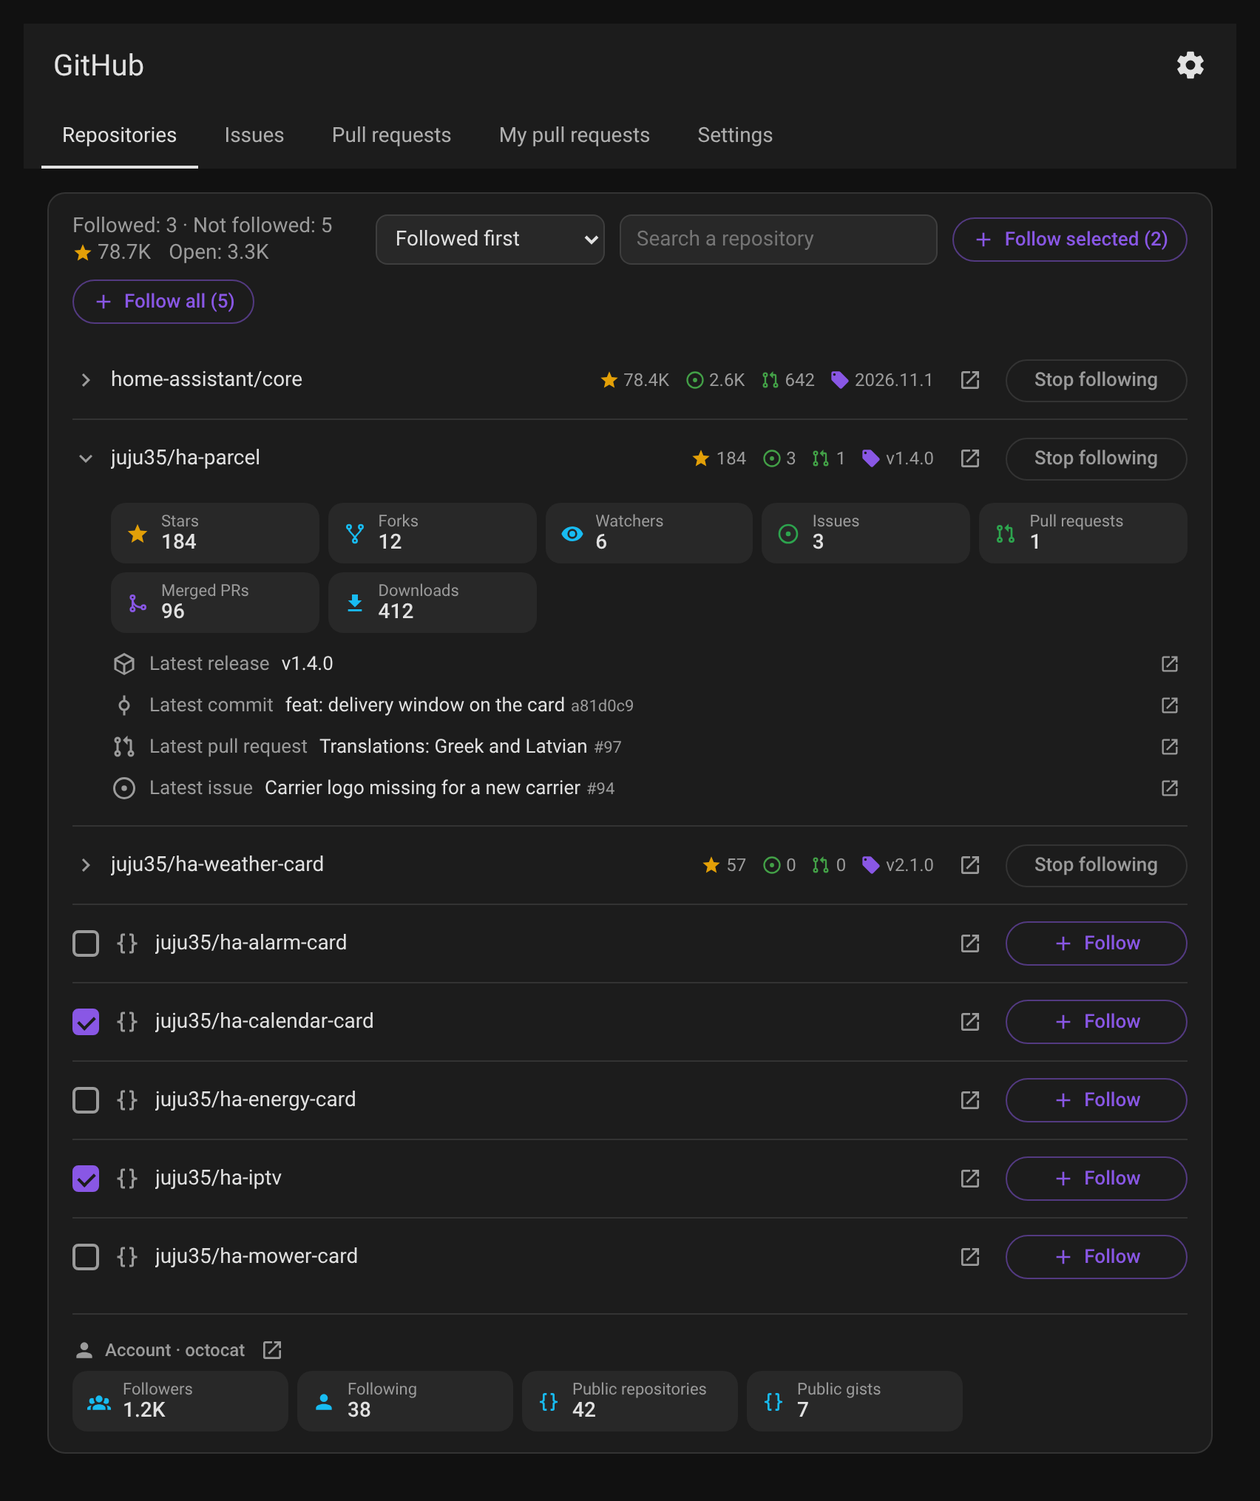
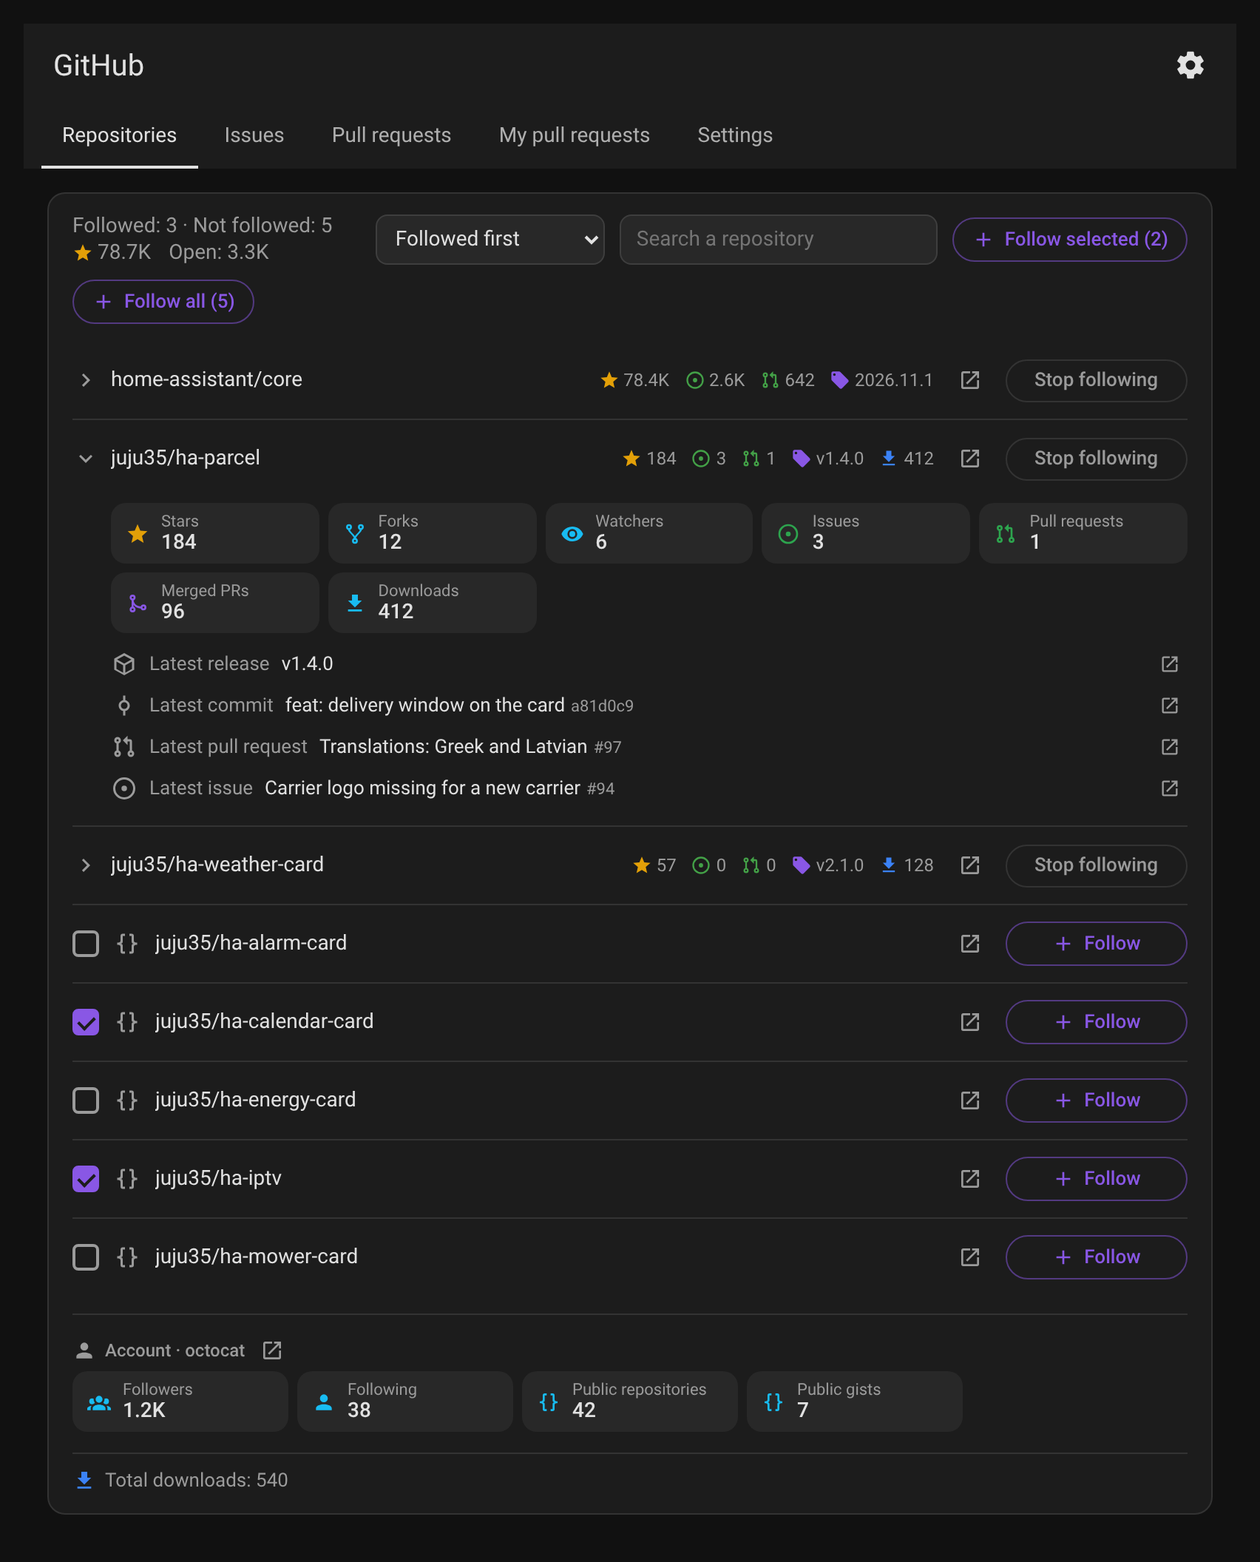
feat: show downloads on the Repositories tab (2.11.0) (#37)
## Summary
Downloads are now surfaced on the panel's Repositories tab without
having to unfold a repository.

- Each followed repository shows its latest-release download count on
its row (next to stars, open issues, pull requests and version), visible
while collapsed. It stays visible on narrow screens, unlike the
version/PR counters.
- The foot of the tab adds the total downloads across all followed
repositories, shown as the exact locale-grouped number and hidden when
there is no download data.

## Changes
- `repositories.py`: add `latest_release_downloads` to `ROW_KEYS` so the
core GitHub integration's download sensor is exposed to the panel.
- `github-panel.js`: download icon, row counter in `_infoHtml`,
`_downloadsTotalHtml()` + `.dl-total` footer and CSS, live refresh in
`_updateInfo`, and the two new i18n keys (`downloads`,
`total_downloads`) in all 22 languages (labels reused from the card).
- Version bump 2.10.0 -> 2.11.0 across manifest, const.py, both frontend
constants, package.json/lock, plus a CHANGELOG entry.

## Tests
- `node --test test/*.test.mjs` -> 50 pass
- `npm run check` -> ok
- Version consistency verified

---
_Generated by [Claude
Code](https://claude.ai/code/session_01F4sAmzJYEQAUuYkXbLuR3H)_

---------

diff --git a/custom_components/github_card/frontend/github-panel.js b/custom_components/github_card/frontend/github-panel.js
@@ -17,7 +17,7 @@
  *   notifications.
  */
 
-const GITHUB_PANEL_VERSION = "2.10.0";
+const GITHUB_PANEL_VERSION = "2.11.0";
 // No Activity tab since 2.3.0: the Repositories tab shows the same; /github-config/activity opens Repositories.
 const GITHUB_PANEL_TABS = ["repos", "issues", "pulls", "mine", "settings"];
 // Bounds of the items refresh interval, in minutes (kept in step with const.py)
@@ -49,6 +49,8 @@ const GITHUB_PANEL_KEYS = [
   "s_refresh", "s_refresh_hint",
   // My pull requests tab (open pull requests I authored, in any repository) and the checks state of a pull request
   "mine", "no_mine", "checks_passing", "checks_failing", "checks_pending",
+  // Downloads of the followed repositories: a row counter and the page total
+  "downloads", "total_downloads",
 ];
 
 const GITHUB_PANEL_TRANSLATIONS = {
@@ -76,6 +78,8 @@ const GITHUB_PANEL_TRANSLATIONS = {
     "Refresh interval (minutes)", "How often the open issues and pull requests are fetched from GitHub.",
     // My pull requests
     "My pull requests", "You have no open pull request.", "Checks passing", "Checks failing", "Checks running",
+    // Downloads: row counter + page total
+    "Downloads", "Total downloads: {n}",
   ],
   fr: [
     "GitHub", "Dépôts", "Activité", "Réglages", "Intégration GitHub", "Chargement…",
@@ -101,6 +105,8 @@ const GITHUB_PANEL_TRANSLATIONS = {
     "Intervalle d’actualisation (minutes)", "Fréquence de récupération des issues et pull requests ouvertes depuis GitHub.",
     // My pull requests
     "Mes pull requests", "Vous n’avez aucune pull request ouverte.", "Tests réussis", "Tests en échec", "Tests en cours",
+    // Downloads: row counter + page total
+    "Téléchargements", "Total des téléchargements : {n}",
   ],
   de: [
     "GitHub", "Repositorys", "Aktivität", "Einstellungen", "GitHub-Integration", "Wird geladen…",
@@ -126,6 +132,8 @@ const GITHUB_PANEL_TRANSLATIONS = {
     "Aktualisierungsintervall (Minuten)", "Wie oft die offenen Issues und Pull Requests von GitHub abgerufen werden.",
     // My pull requests
     "Meine Pull Requests", "Du hast keinen offenen Pull Request.", "Prüfungen bestanden", "Prüfungen fehlgeschlagen", "Prüfungen laufen",
+    // Downloads: row counter + page total
+    "Downloads", "Downloads insgesamt: {n}",
   ],
   es: [
     "GitHub", "Repositorios", "Actividad", "Ajustes", "Integración GitHub", "Cargando…",
@@ -151,6 +159,8 @@ const GITHUB_PANEL_TRANSLATIONS = {
     "Intervalo de actualización (minutos)", "Con qué frecuencia se obtienen de GitHub las issues y pull requests abiertas.",
     // My pull requests
     "Mis pull requests", "No tienes ninguna pull request abierta.", "Comprobaciones correctas", "Comprobaciones fallidas", "Comprobaciones en curso",
+    // Downloads: row counter + page total
+    "Descargas", "Descargas totales: {n}",
   ],
   sr: [
     "GitHub", "Репозиторијуми", "Активност", "Подешавања", "Интеграција GitHub", "Учитавање…",
@@ -176,6 +186,8 @@ const GITHUB_PANEL_TRANSLATIONS = {
     "Интервал освежавања (минути)", "Колико често се отворени проблеми и pull захтеви преузимају са GitHub-а.",
     // My pull requests
     "Моји pull захтеви", "Немате отворених pull захтева.", "Провере успешне", "Провере неуспешне", "Провере у току",
+    // Downloads: row counter + page total
+    "Преузимања", "Укупно преузимања: {n}",
   ],
   "sr-Latn": [
     "GitHub", "Repozitorijumi", "Aktivnost", "Podešavanja", "Integracija GitHub", "Učitavanje…",
@@ -201,6 +213,8 @@ const GITHUB_PANEL_TRANSLATIONS = {
     "Interval osvežavanja (minuti)", "Koliko često se otvoreni problemi i pull zahtevi preuzimaju sa GitHub-a.",
     // My pull requests
     "Moji pull zahtevi", "Nemate otvorenih pull zahteva.", "Provere uspešne", "Provere neuspešne", "Provere u toku",
+    // Downloads: row counter + page total
+    "Preuzimanja", "Ukupno preuzimanja: {n}",
   ],
   it: [
     "GitHub", "Repository", "Attività", "Impostazioni", "Integrazione GitHub", "Caricamento…",
@@ -226,6 +240,8 @@ const GITHUB_PANEL_TRANSLATIONS = {
     "Intervallo di aggiornamento (minuti)", "Con quale frequenza le issue e le pull request aperte vengono recuperate da GitHub.",
     // My pull requests
     "Le mie pull request", "Non hai nessuna pull request aperta.", "Controlli superati", "Controlli falliti", "Controlli in corso",
+    // Downloads: row counter + page total
+    "Download", "Download totali: {n}",
   ],
   nl: [
     "GitHub", "Repositories", "Activiteit", "Instellingen", "GitHub-integratie", "Laden…",
@@ -251,6 +267,8 @@ const GITHUB_PANEL_TRANSLATIONS = {
     "Vernieuwingsinterval (minuten)", "Hoe vaak de open issues en pull requests van GitHub worden opgehaald.",
     // My pull requests
     "Mijn pull requests", "Je hebt geen open pull request.", "Controles geslaagd", "Controles mislukt", "Controles bezig",
+    // Downloads: row counter + page total
+    "Downloads", "Totaal aantal downloads: {n}",
   ],
   pt: [
     "GitHub", "Repositórios", "Atividade", "Definições", "Integração GitHub", "A carregar…",
@@ -276,6 +294,8 @@ const GITHUB_PANEL_TRANSLATIONS = {
     "Intervalo de atualização (minutos)", "Com que frequência as issues e pull requests em aberto são obtidas do GitHub.",
     // My pull requests
     "Os meus pull requests", "Não tem nenhum pull request em aberto.", "Verificações aprovadas", "Verificações falhadas", "Verificações em curso",
+    // Downloads: row counter + page total
+    "Transferências", "Total de transferências: {n}",
   ],
   pl: [
     "GitHub", "Repozytoria", "Aktywność", "Ustawienia", "Integracja GitHub", "Ładowanie…",
@@ -301,6 +321,8 @@ const GITHUB_PANEL_TRANSLATIONS = {
     "Interwał odświeżania (minuty)", "Jak często otwarte zgłoszenia i pull requesty są pobierane z GitHub.",
     // My pull requests
     "Moje pull requesty", "Nie masz żadnego otwartego pull requesta.", "Testy zaliczone", "Testy nieudane", "Testy w toku",
+    // Downloads: row counter + page total
+    "Pobrania", "Łączna liczba pobrań: {n}",
   ],
   ro: [
     "GitHub", "Depozite", "Activitate", "Setări", "Integrarea GitHub", "Se încarcă…",
@@ -326,6 +348,8 @@ const GITHUB_PANEL_TRANSLATIONS = {
     "Interval de actualizare (minute)", "Cât de des sunt preluate de la GitHub issue-urile și pull request-urile deschise.",
     // My pull requests
     "Pull request-urile mele", "Nu ai niciun pull request deschis.", "Verificări reușite", "Verificări eșuate", "Verificări în curs",
+    // Downloads: row counter + page total
+    "Descărcări", "Total descărcări: {n}",
   ],
   da: [
     "GitHub", "Repositories", "Aktivitet", "Indstillinger", "GitHub-integration", "Indlæser…",
@@ -351,6 +375,8 @@ const GITHUB_PANEL_TRANSLATIONS = {
     "Opdateringsinterval (minutter)", "Hvor ofte de åbne issues og pull requests hentes fra GitHub.",
     // My pull requests
     "Mine pull requests", "Du har ingen åbne pull requests.", "Tjek bestået", "Tjek mislykkedes", "Tjek i gang",
+    // Downloads: row counter + page total
+    "Downloads", "Downloads i alt: {n}",
   ],
   sv: [
     "GitHub", "Repon", "Aktivitet", "Inställningar", "GitHub-integration", "Laddar…",
@@ -376,6 +402,8 @@ const GITHUB_PANEL_TRANSLATIONS = {
     "Uppdateringsintervall (minuter)", "Hur ofta öppna ärenden och pull requests hämtas från GitHub.",
     // My pull requests
     "Mina pull requests", "Du har inga öppna pull requests.", "Kontroller godkända", "Kontroller misslyckades", "Kontroller pågår",
+    // Downloads: row counter + page total
+    "Nedladdningar", "Totalt antal nedladdningar: {n}",
   ],
   bg: [
     "GitHub", "Хранилища", "Активност", "Настройки", "Интеграция GitHub", "Зареждане…",
@@ -401,6 +429,8 @@ const GITHUB_PANEL_TRANSLATIONS = {
     "Интервал на опресняване (минути)", "Колко често отворените проблеми и pull заявки се извличат от GitHub.",
     // My pull requests
     "Моите pull заявки", "Нямате отворени pull заявки.", "Проверките успешни", "Проверките неуспешни", "Проверките текат",
+    // Downloads: row counter + page total
+    "Изтегляния", "Общо изтегляния: {n}",
   ],
   ru: [
     "GitHub", "Репозитории", "Активность", "Настройки", "Интеграция GitHub", "Загрузка…",
@@ -426,6 +456,8 @@ const GITHUB_PANEL_TRANSLATIONS = {
     "Интервал обновления (минуты)", "Как часто открытые задачи и pull-запросы запрашиваются с GitHub.",
     // My pull requests
     "Мои pull-запросы", "У вас нет открытых pull-запросов.", "Проверки пройдены", "Проверки не пройдены", "Проверки выполняются",
+    // Downloads: row counter + page total
+    "Загрузки", "Всего загрузок: {n}",
   ],
   uk: [
     "GitHub", "Репозиторії", "Активність", "Налаштування", "Інтеграція GitHub", "Завантаження…",
@@ -451,6 +483,8 @@ const GITHUB_PANEL_TRANSLATIONS = {
     "Інтервал оновлення (хвилини)", "Як часто відкриті задачі та pull-запити отримуються з GitHub.",
     // My pull requests
     "Мої pull-запити", "У вас немає відкритих pull-запитів.", "Перевірки пройдено", "Перевірки не пройдено", "Перевірки виконуються",
+    // Downloads: row counter + page total
+    "Завантаження", "Усього завантажень: {n}",
   ],
   hu: [
     "GitHub", "Tárolók", "Tevékenység", "Beállítások", "GitHub integráció", "Betöltés…",
@@ -476,6 +510,8 @@ const GITHUB_PANEL_TRANSLATIONS = {
     "Frissítési időköz (perc)", "Milyen gyakran töltődnek le a nyitott hibajegyek és pull requestek a GitHubról.",
     // My pull requests
     "Saját pull requestjeim", "Nincs nyitott pull requested.", "Ellenőrzések rendben", "Ellenőrzések sikertelenek", "Ellenőrzések folyamatban",
+    // Downloads: row counter + page total
+    "Letöltések", "Letöltések összesen: {n}",
   ],
   sk: [
     "GitHub", "Repozitáre", "Aktivita", "Nastavenia", "Integrácia GitHub", "Načítava sa…",
@@ -501,6 +537,8 @@ const GITHUB_PANEL_TRANSLATIONS = {
     "Interval obnovenia (minúty)", "Ako často sa otvorené problémy a pull requesty načítavajú z GitHubu.",
     // My pull requests
     "Moje pull requesty", "Nemáte žiadny otvorený pull request.", "Kontroly prešli", "Kontroly zlyhali", "Kontroly prebiehajú",
+    // Downloads: row counter + page total
+    "Stiahnutia", "Stiahnutí spolu: {n}",
   ],
   cs: [
     "GitHub", "Repozitáře", "Aktivita", "Nastavení", "Integrace GitHub", "Načítání…",
@@ -526,6 +564,8 @@ const GITHUB_PANEL_TRANSLATIONS = {
     "Interval obnovení (minuty)", "Jak často se otevřené problémy a pull requesty načítají z GitHubu.",
     // My pull requests
     "Moje pull requesty", "Nemáte žádný otevřený pull request.", "Kontroly prošly", "Kontroly selhaly", "Kontroly probíhají",
+    // Downloads: row counter + page total
+    "Stažení", "Stažení celkem: {n}",
   ],
   sl: [
     "GitHub", "Repozitoriji", "Dejavnost", "Nastavitve", "Integracija GitHub", "Nalaganje…",
@@ -551,6 +591,8 @@ const GITHUB_PANEL_TRANSLATIONS = {
     "Interval osveževanja (minute)", "Kako pogosto se odprte težave in pull requesti pridobijo z GitHuba.",
     // My pull requests
     "Moji pull requesti", "Nimate odprtega pull requesta.", "Preverjanja uspešna", "Preverjanja neuspešna", "Preverjanja potekajo",
+    // Downloads: row counter + page total
+    "Prenosi", "Skupaj prenosov: {n}",
   ],
   lv: [
     "GitHub", "Krātuves", "Aktivitāte", "Iestatījumi", "GitHub integrācija", "Ielādē…",
@@ -576,6 +618,8 @@ const GITHUB_PANEL_TRANSLATIONS = {
     "Atsvaidzināšanas intervāls (minūtes)", "Cik bieži atvērtās problēmas un pull pieprasījumi tiek iegūti no GitHub.",
     // My pull requests
     "Mani pull pieprasījumi", "Jums nav neviena atvērta pull pieprasījuma.", "Pārbaudes nokārtotas", "Pārbaudes neizdevās", "Pārbaudes norisinās",
+    // Downloads: row counter + page total
+    "Lejupielādes", "Lejupielādes kopā: {n}",
   ],
   el: [
     "GitHub", "Αποθετήρια", "Δραστηριότητα", "Ρυθμίσεις", "Ενσωμάτωση GitHub", "Φόρτωση…",
@@ -601,6 +645,8 @@ const GITHUB_PANEL_TRANSLATIONS = {
     "Διάστημα ανανέωσης (λεπτά)", "Πόσο συχνά ανακτώνται από το GitHub τα ανοιχτά ζητήματα και pull requests.",
     // My pull requests
     "Τα pull requests μου", "Δεν έχετε κανένα ανοιχτό pull request.", "Έλεγχοι επιτυχείς", "Έλεγχοι απέτυχαν", "Έλεγχοι σε εξέλιξη",
+    // Downloads: row counter + page total
+    "Λήψεις", "Σύνολο λήψεων: {n}",
   ],
 };
 
@@ -625,6 +671,7 @@ const GITHUB_PANEL_ICONS = {
   tag: "M5.5,7A1.5,1.5 0 0,1 4,5.5A1.5,1.5 0 0,1 5.5,4A1.5,1.5 0 0,1 7,5.5A1.5,1.5 0 0,1 5.5,7M21.41,11.58L12.41,2.58C12.05,2.22 11.55,2 11,2H4C2.89,2 2,2.89 2,4V11C2,11.55 2.22,12.05 2.59,12.41L11.58,21.41C11.95,21.77 12.45,22 13,22C13.55,22 14.05,21.77 14.41,21.41L21.41,14.41C21.78,14.05 22,13.55 22,13C22,12.44 21.77,11.94 21.41,11.58Z",
   comment: "M9,22A1,1 0 0,1 8,21V18H4A2,2 0 0,1 2,16V4C2,2.89 2.9,2 4,2H20A2,2 0 0,1 22,4V16A2,2 0 0,1 20,18H13.9L10.2,21.71C10,21.9 9.75,22 9.5,22V22H9Z",
   refresh: "M17.65,6.35C16.2,4.9 14.21,4 12,4A8,8 0 0,0 4,12A8,8 0 0,0 12,20C15.73,20 18.84,17.45 19.73,14H17.65C16.83,16.33 14.61,18 12,18A6,6 0 0,1 6,12A6,6 0 0,1 12,6C13.66,6 15.14,6.69 16.22,7.78L13,11H20V4L17.65,6.35Z",
+  download: "M5,20H19V18H5M19,9H15V3H9V9H5L12,16L19,9Z",
 };
 const githubPanelIcon = (name) => `<svg class="i" viewBox="0 0 24 24" aria-hidden="true"><path d="${GITHUB_PANEL_ICONS[name]}"/></svg>`;
 
@@ -706,7 +753,12 @@ class GitHubPanel extends HTMLElement {
     .info { display:inline-flex; align-items:center; gap:10px; font-size:12px; color:var(--secondary-text-color); flex:none; }
     .info > span { display:inline-flex; align-items:center; gap:3px; }
     .info .i { width:14px; height:14px; }
-    .info .star .i { color:#e3a008; } .info .ok .i { color:var(--tone-good); } .info .tag .i { color:var(--gh-accent); }
+    .info .star .i { color:#e3a008; } .info .ok .i { color:var(--tone-good); } .info .tag .i { color:var(--gh-accent); } .info .dl .i { color:#3b82f6; }
+    /* Total downloads of the followed repositories, at the foot of the Repositories tab */
+    .dl-total { display:flex; align-items:center; gap:6px; font-size:13px; color:var(--secondary-text-color); }
+    .dl-total:empty { display:none; }
+    .dl-total:not(:empty) { border-top:1px solid var(--divider-color, rgba(127,127,127,.15)); padding-top:10px; margin-top:2px; }
+    .dl-total .i { width:16px; height:16px; color:#3b82f6; }
     .detail { padding:4px 0 12px 26px; }
     @media (max-width: 600px) { .info .tag, .info .ok:nth-child(3) { display:none; } .detail { padding-left:0; } }
     /* Confirmation in place of the row, like the card popups (at the top of what they act on) */
@@ -1115,6 +1167,7 @@ class GitHubPanel extends HTMLElement {
         ${notes.join("")}
         <div class="list">${list.length ? list.join("") : this._message && this._message === this._loadError ? "" : `<div class="note">${esc(this._t("empty"))}</div>`}</div>
         <div class="account-slot"></div>
+        <div class="dl-total">${this._downloadsTotalHtml()}</div>
       </div>`;
     this._bindRepos(host);
     this._mountDetail(host);
@@ -1145,6 +1198,7 @@ class GitHubPanel extends HTMLElement {
       count("issues_count", "issue", "issues", "ok"),
       count("pulls_count", "pr", "pulls", "ok"),
       count("latest_release", "tag", "release", "tag"),
+      count("latest_release_downloads", "download", "downloads", "dl"),
     ].join("");
   }
 
@@ -1199,12 +1253,33 @@ class GitHubPanel extends HTMLElement {
     return parts.join("");
   }
 
+  /** Total downloads of the followed repositories, shown at the foot of the Repositories tab. */
+  _downloadsTotalHtml() {
+    const values = (this._overview?.followed || [])
+      .map((r) => this._number(r, "latest_release_downloads"))
+      .filter((v) => v !== null);
+    if (!values.length) return "";
+    const total = values.reduce((a, b) => a + b, 0);
+    let n = String(total);
+    try {
+      n = new Intl.NumberFormat(this._lang()).format(total);
+    } catch (_err) {
+      // unknown locale: the plain number
+    }
+    return `${githubPanelIcon("download")}<span>${githubPanelEsc(this._t("total_downloads", { n }))}</span>`;
+  }
+
   /** Counters of the rows follow the sensors without rebuilding the list (the search field keeps its focus). */
   _updateInfo() {
     const totals = this.shadowRoot.querySelector?.("#repos .totals");
     if (totals) {
       const html = this._totalsHtml();
       if (totals.innerHTML !== html) totals.innerHTML = html;
+    }
+    const dlTotal = this.shadowRoot.querySelector?.("#repos .dl-total");
+    if (dlTotal) {
+      const html = this._downloadsTotalHtml();
+      if (dlTotal.innerHTML !== html) dlTotal.innerHTML = html;
     }
     if (this._account) {
       this._account.hass = this._hass;

diff --git a/custom_components/github_card/frontend/github-card.js b/custom_components/github_card/frontend/github-card.js
@@ -8,7 +8,7 @@
  * entity registry (platform "github", translation key, device), whatever the language.
  */
 
-const VERSION = "2.10.0";
+const VERSION = "2.11.0";
 
 // Material Design Icons paths.
 const ICONS = {

diff --git a/custom_components/github_card/repositories.py b/custom_components/github_card/repositories.py
@@ -62,7 +62,14 @@ def followed(entry: ConfigEntry) -> dict[str, str]:
 
 
 # Sensors of a followed repository shown on its row in the panel (the panel reads their live states)
-ROW_KEYS = ("stargazers_count", "forks_count", "issues_count", "pulls_count", "latest_release")
+ROW_KEYS = (
+    "stargazers_count",
+    "forks_count",
+    "issues_count",
+    "pulls_count",
+    "latest_release",
+    "latest_release_downloads",
+)
 
 
 def sensors(hass: HomeAssistant, entry: ConfigEntry) -> dict[str, dict[str, str]]:

diff --git a/custom_components/github_card/const.py b/custom_components/github_card/const.py
@@ -1,7 +1,7 @@
 """Constants for the GitHub Card integration."""
 
 DOMAIN = "github_card"
-VERSION = "2.10.0"
+VERSION = "2.11.0"
 
 # The core GitHub integration, whose repositories the panel follows and unfollows
 GITHUB_DOMAIN = "github"

diff --git a/CHANGELOG.md b/CHANGELOG.md
@@ -1,5 +1,10 @@
 # Changelog
 
+## 2.11.0 - 2026-11-15
+
+### Features
+- **Downloads on the Repositories tab.** Each followed repository now shows its latest-release download count on its row, visible without unfolding it, next to the stars, open issues and pull requests. The foot of the tab adds the total downloads across all followed repositories.
+
 ## 2.10.0 - 2026-11-15
 
 ### Features
